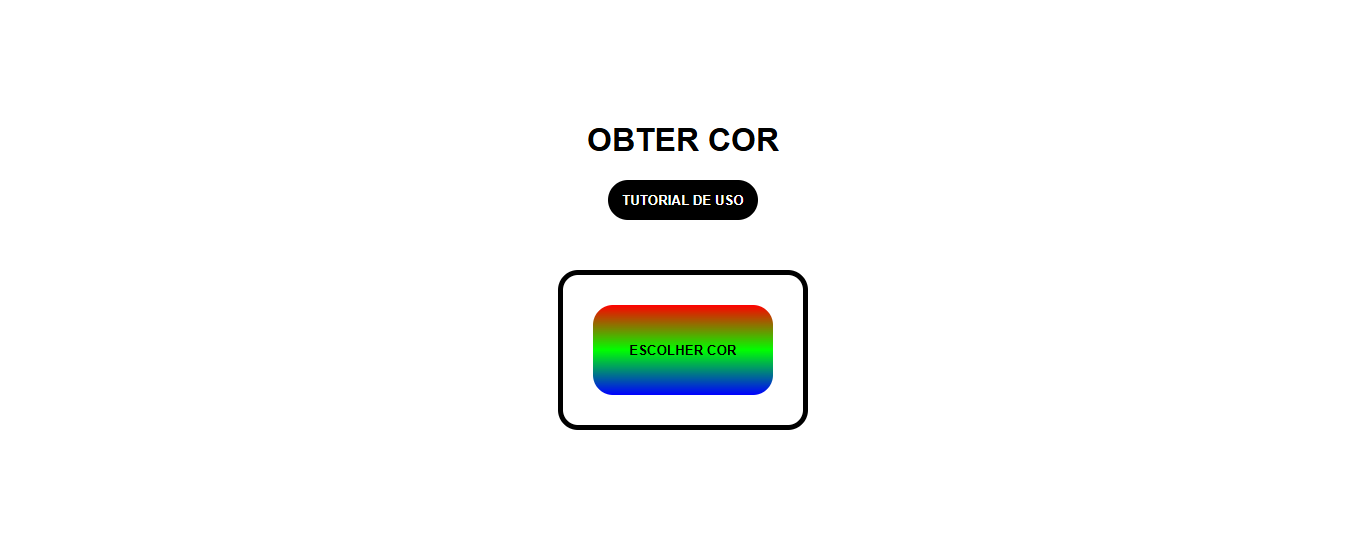
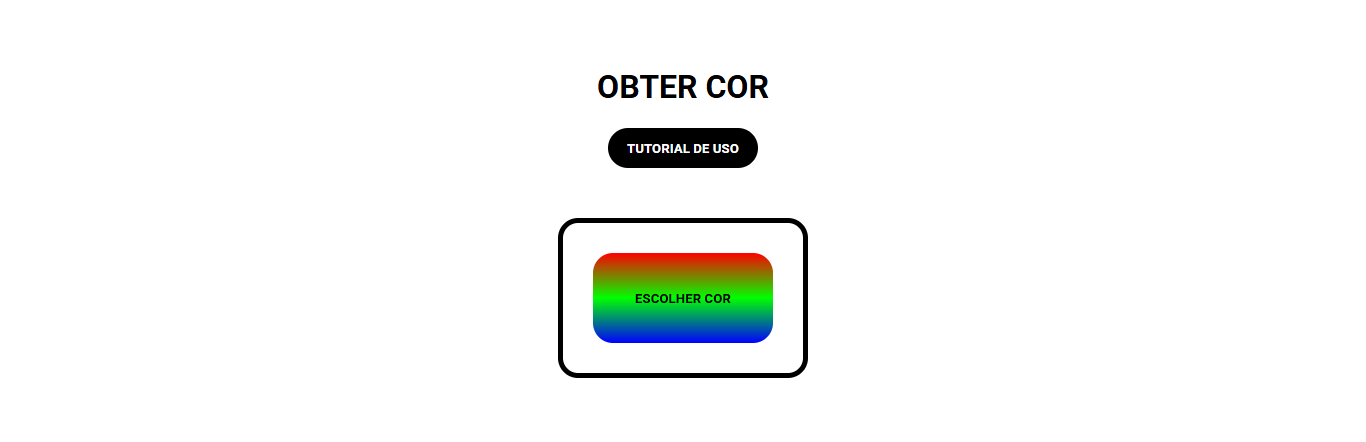
melhoria no projeto em geral

Changed region(s): [[0.3997, 0.5588, 0.6149, 0.8529], [0.4305, 0.1471, 0.5842, 0.4118], [0.4305, 0.4706, 0.5842, 0.5]]

diff --git a/colors.html b/colors.html
@@ -6,6 +6,7 @@
     <meta http-equiv="X-UA-Compatible" content="ie=edge">
     <link rel="stylesheet" href="src/css/colors.css">
     <link rel="stylesheet" href="src/css/responsive.css">
+    <link rel="stylesheet" href="src/css/font-family.css">
     <link rel="icon" href="src/images/icon.png">
     <title id="title">Obter Cor - Escolher Cor</title>
 </head>

diff --git a/tutorial.html b/tutorial.html
@@ -6,6 +6,7 @@
     <meta http-equiv="X-UA-Compatible" content="ie=edge">
     <link rel="stylesheet" href="src/css/responsive.css">
     <link rel="stylesheet" href="src/css/tutorial.css">
+    <link rel="stylesheet" href="src/css/font-family.css">
     <link rel="icon" href="src/images/icon.png">
     <title>Obter Cor - Tutorial de Uso</title>
 </head>

diff --git a/index.html b/index.html
@@ -5,6 +5,7 @@
     <meta name="viewport" content="width=device-width, initial-scale=1.0">
     <meta http-equiv="X-UA-Compatible" content="ie=edge">
     <link rel="stylesheet" href="src/css/index.css">
+    <link rel="stylesheet" href="src/css/font-family.css">
     <link rel="icon" href="src/images/icon.png">
     <title>Obter Cor</title>
 </head>

diff --git a/src/css/responsive.css b/src/css/responsive.css
@@ -14,7 +14,10 @@
 
     /* Pagina de selecao de cores */
     .box-background-colors{
-        width: 15em;
+        width: 16em;
+    }
+    .styles-btns-colors{
+        height: 40px;
     }
 
 

diff --git a/src/css/index.css b/src/css/index.css
@@ -2,7 +2,6 @@ body{
     display: flex;
     flex-direction: column;
     justify-content: center;
-    font-family: sans-serif;
     font-weight: bold;
     margin: 0;
     padding: 0;

diff --git a/src/css/colors.css b/src/css/colors.css
@@ -2,7 +2,6 @@ body{
     display: flex;
     flex-direction: column;
     justify-content: center;
-    font-family: sans-serif;
     font-weight: bold;
 }
 

diff --git a/src/css/tutorial.css b/src/css/tutorial.css
@@ -1,7 +1,6 @@
 body{
     display: flex;
     flex-direction: column;
-    font-family: sans-serif;
     font-weight: bold;
 }
 

diff --git a/src/css/font-family.css b/src/css/font-family.css
@@ -1,0 +1,3 @@
+*{
+    font-family: Roboto, sans-serif;
+}
